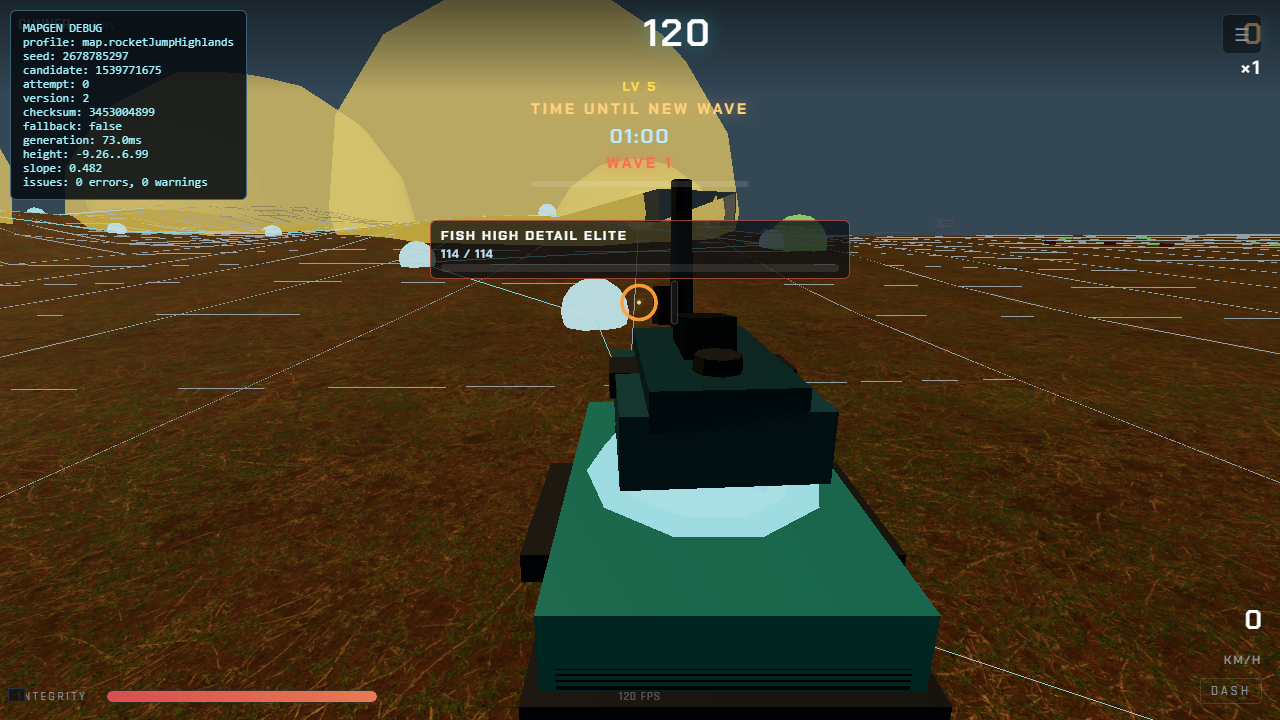
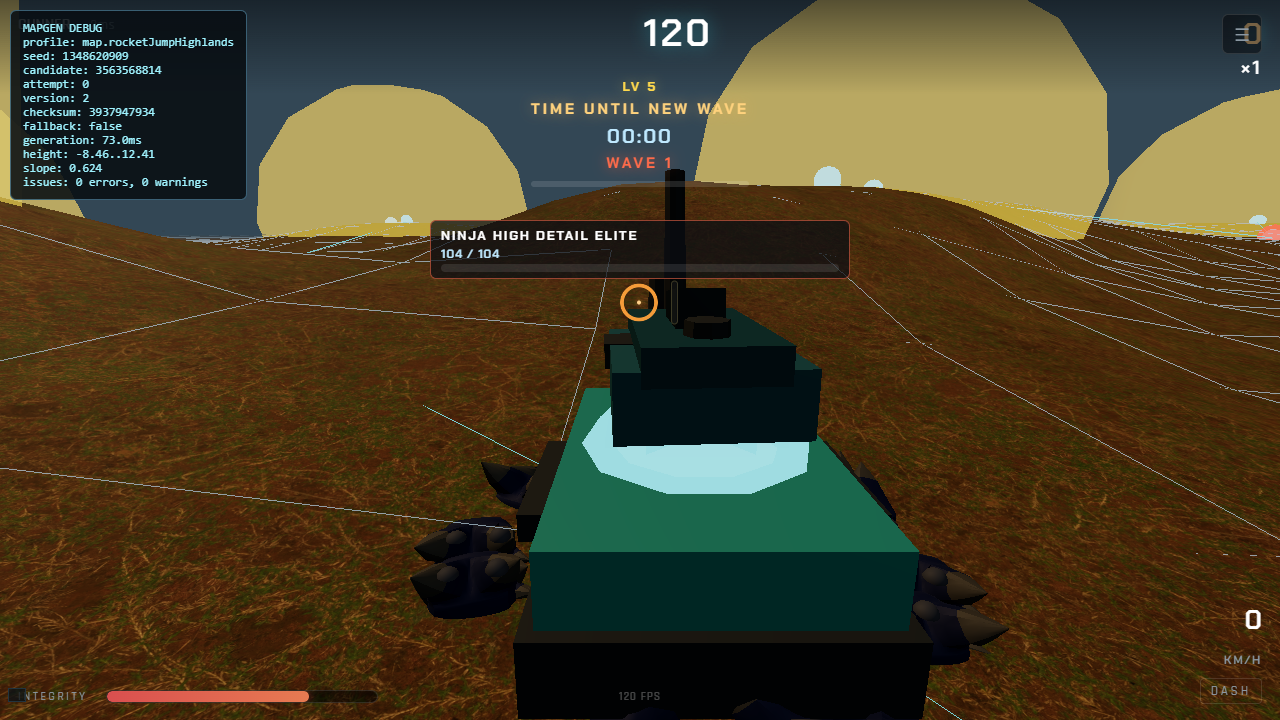
monster-fix: qualify corrected production monster loop

diff --git a/e2e/monster-coreloop-singleplayer.spec.ts b/e2e/monster-coreloop-singleplayer.spec.ts
@@ -49,6 +49,10 @@ test('production single player completes the full monster loop and rematches cle
   await expect(page.locator('#encounter-elite1')).toBeVisible({ timeout: 100_000 });
   await expect(page.locator('#encounter-elite1-label')).not.toHaveText('');
   await page.screenshot({ path: 'docs/monster-system/qualification-screenshots/sp-wave1.png' });
+  // The farming clock is frozen during the elite wave (bug-fix phase 4).
+  await expect(page.locator('#stage-wave-countdown')).toHaveText('00:00');
+  await page.waitForTimeout(3000);
+  await expect(page.locator('#stage-wave-countdown')).toHaveText('00:00');
 
   // Kill wave 1 elite -> farming resumes.
   await page.evaluate(() => {
@@ -69,6 +73,11 @@ test('production single player completes the full monster loop and rematches cle
   await page.waitForFunction(() => {
     const w = window as unknown as { __recoil: { monster: { phase(): string | null } } };
     return w.__recoil.monster.phase() === 'farming2';
+  });
+  // XP shards are present in the authoritative state visible to the browser.
+  await page.waitForFunction(() => {
+    const w = window as unknown as { __recoil: { state(): { xpShards: unknown[] } } };
+    return w.__recoil.state().xpShards.length > 0;
   });
 
   // Wave 2 elite at ~120 s reuses the single active elite bar (one elite

diff --git a/tests/pickups/xpShardLifecycle.test.ts b/tests/pickups/xpShardLifecycle.test.ts
@@ -106,4 +106,31 @@ describe('XP shard lifecycle (bug-fix phase 5)', () => {
     renderer.dispose();
     expect(scene.children.includes(mesh)).toBe(false);
   });
+
+  it('keeps authoritative XP state bounded under sustained shard pressure', () => {
+    const m = makeMatch();
+    step(m, 4);
+    for (let i = 0; i < 40; i++) {
+      m.runtime.systems.xpShards.spawn(1, m.state.tank.x + 60, m.state.tank.z + i * 0.2);
+    }
+    expect(m.state.xpShards.length).toBe(40);
+    step(m, 31);
+    expect(m.state.xpShards.length).toBe(0);
+    // Reservations also clean up after the monsters that owned them die.
+    const def = pack.getEnemy('enemy.quaternius.ninja');
+    const ids: number[] = [];
+    for (let i = 0; i < 6; i++) {
+      const e = m.runtime.systems.enemies.spawnEnemyDef(def, m.state.tank.x + Math.cos((i / 6) * Math.PI * 2) * 1.6, m.state.tank.z + Math.sin((i / 6) * Math.PI * 2) * 1.6);
+      if (e) ids.push(e.id);
+    }
+    step(m, 2);
+    const manager = m.runtime.systems.enemies.meleeReservations;
+    expect(manager.size).toBeGreaterThan(0);
+    for (const id of ids) {
+      const e = m.state.enemies.find((x) => x.id === id);
+      if (e) m.runtime.systems.damage.applyEnemy(e, 999999, 'test');
+    }
+    step(m, 2);
+    expect(manager.size).toBe(0);
+  });
 });

diff --git a/src/client/presentation/hudViewModel.ts b/src/client/presentation/hudViewModel.ts
@@ -356,8 +356,10 @@ export class HudProjector {
           phase: monsterPhase,
           waveTimerLabel,
           waveCountdownText:
-            waveTimerLabel && waveCountdown > 0
-              ? `${String(Math.floor(waveCountdown / 60)).padStart(2, '0')}:${String(waveCountdown % 60).padStart(2, '0')}`
+            waveTimerLabel && monsterPhase === 'FARMING'
+              ? waveCountdown > 0
+                ? `${String(Math.floor(waveCountdown / 60)).padStart(2, '0')}:${String(waveCountdown % 60).padStart(2, '0')}`
+                : '00:00'
               : '',
           waveWarning,
           waveWarningVisible: waveWarning !== '',

diff --git a/docs/monster-system/MONSTER_SYSTEM_BUG_FIX_REPORT.md b/docs/monster-system/MONSTER_SYSTEM_BUG_FIX_REPORT.md
@@ -13,7 +13,7 @@ Starting SHA: `f3ee97034775f1ee3d216144cb1bc2be489ba542`
 | 3 — Movement and behavior | IN PROGRESS | (next commit) |
 | 4 — Timer, pacing, boss intro | IN PROGRESS | (next commit) |
 | 5 — XP presentation and cleanup | IN PROGRESS | (next commit) |
-| 6 — End-to-end qualification | pending | |
+| 6 — End-to-end qualification | IN PROGRESS | (next commit) |
 
 ## Phase 1 — Multiplayer identity and wave composition
 
@@ -261,3 +261,55 @@ removal (the previous persistent-collected assertion encoded the bug).
 
 `npx tsc --noEmit` PASS · `npm test` PASS (142 files / 1030 tests) ·
 `npm run build` PASS · `test:demo` PASS (golden unchanged).
+
+## Phase 6 — End-to-end qualification
+
+### Single Player (browser, final build)
+
+`e2e/monster-coreloop-singleplayer.spec.ts` PASS (3.2 min):
+
+- farming HUD (`TIME UNTIL NEW WAVE`, monster level) and selected run;
+- wave 1 elite encounter bar; the farming clock is frozen (`00:00`) while
+  the elite wave is active;
+- XP shards present in authoritative browser state after the elite kill;
+- wave 2, `BOSS INCOMING`, deferred boss activation, boss defeat victory,
+  and a clean rematch (fresh HUD, no lingering bars);
+- no critical page errors.
+
+### Multiplayer (two clients, browser, final build)
+
+`e2e/monster-coreloop-multiplayer.spec.ts` PASS (3.3 min):
+
+- both clients receive the identical authoritative run config;
+- exact generalized identities on both clients (no Scrap Bug reconstruction);
+- wave/elite/boss encounter-bar agreement (labels + HP);
+- frozen farming clock during waves on both clients;
+- boss-death results on both clients and rematch through the preload gate;
+- no critical page errors.
+
+Screenshots updated under `docs/monster-system/qualification-screenshots/`
+(SP farming/wave1/wave2/boss-intro/boss/victory; MP wave1/boss driver+gunner).
+
+### State growth
+
+`tests/pickups/xpShardLifecycle.test.ts` runs 40 shards through expiry and
+asserts authoritative state returns to zero; melee reservations fully
+release after owner deaths.
+
+### Performance
+
+`test:horde:benchmark` (final): 500 enemies ≈ 0.971 ms/tick p50,
+1.426 ms p99. `test:monsterpack-rendering` PASS (8.4 s).
+
+### Gates (final)
+
+`npx tsc --noEmit` PASS · `npm test` PASS (142 files / 1031 tests) ·
+`generate:content-pack` / `generate:presentation-content` /
+`generate:map-profiles` PASS · `npm run build` PASS · `test:demo` PASS
+(golden unchanged) · `test:horde` + `test:netcode` + `test:progression` +
+`test:monsterpack10` PASS (263 tests) · `test:horde:benchmark` PASS ·
+`validate:enemy-animations` PASS · `test:monsterpack-import` PASS ·
+`test:monsterpack-rendering` PASS · production SP + two-client e2e PASS.
+
+Remaining known limitations: interactive human playtesting and eyeballing
+the captured screenshots (pixel checks confirm non-blank frames).

diff --git a/docs/monster-system/CORE_LOOP_PHASE_HANDOFF.md b/docs/monster-system/CORE_LOOP_PHASE_HANDOFF.md
@@ -130,6 +130,29 @@ Remaining:
 - Human visual review of `docs/monster-system/qualification-screenshots/`
   (10 PNGs captured and pixel-checked; not eyeballed in this session).
 
+## Bug-fix pass (completed)
+
+Six focused commits on `monster-system` resolve the confirmed integration
+defects (see `MONSTER_SYSTEM_BUG_FIX_REPORT.md`):
+
+- `ab82eb6` preserve monster identity and wave composition (generated enemy
+  definition index, exact aggregate identity, per-entry wave/escort packs);
+- `3a2dbba` apply normalized scale collision and grounding (Y-up axes,
+  foot-plane offsets, resolved dimensions, renderer integration);
+- `32c4bfd` correct pursuit engagement and action ordering (CHASE/STAGE/
+  RESERVED_APPROACH/ATTACK_HOLD, ranged hold band, speed-before-integration,
+  post-behavior semantics);
+- `3472167` pause wave clock and gate boss activation (production
+  `pauseCountdownDuringWave: true`, phase-local farming progress,
+  authoritative 4 s boss intro, frozen HUD countdown);
+- `0de6839` render collect and clean up xp shards (instanced renderer,
+  pickup event wiring, authoritative removal);
+- (next) qualify corrected production monster loop (SP + two-client browser
+  runs, state-growth checks, screenshots, reports).
+
+Final gates: `npm test` 142 files / 1031 tests PASS, build PASS, demo golden
+PASS, all listed browser e2e PASS.
+
 ## Known limitations / tuning notes
 
 - Multiplayer preload starts when the `start` message arrives (after the
